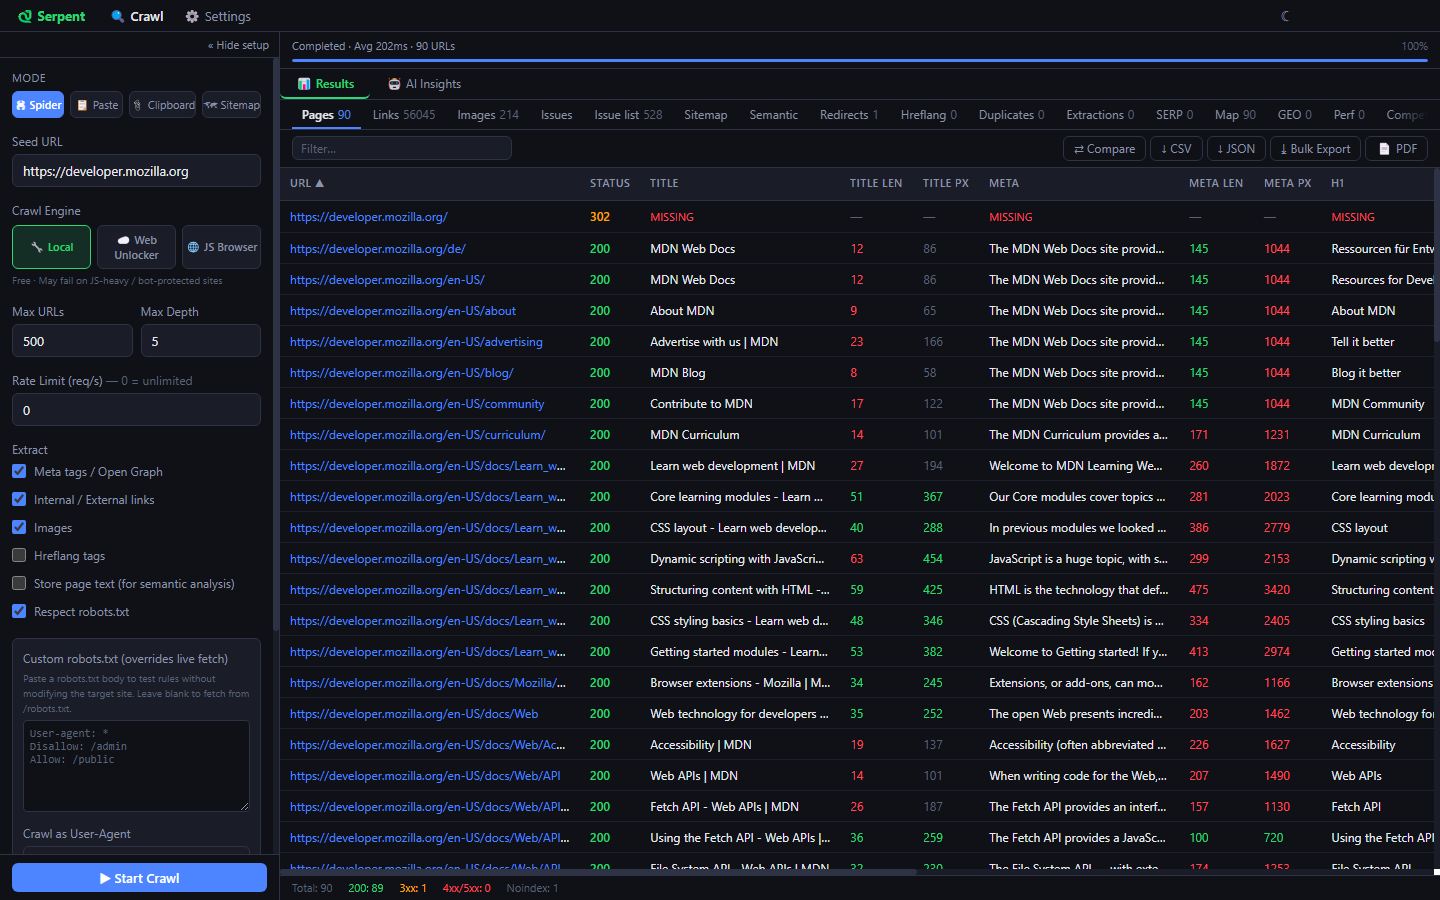
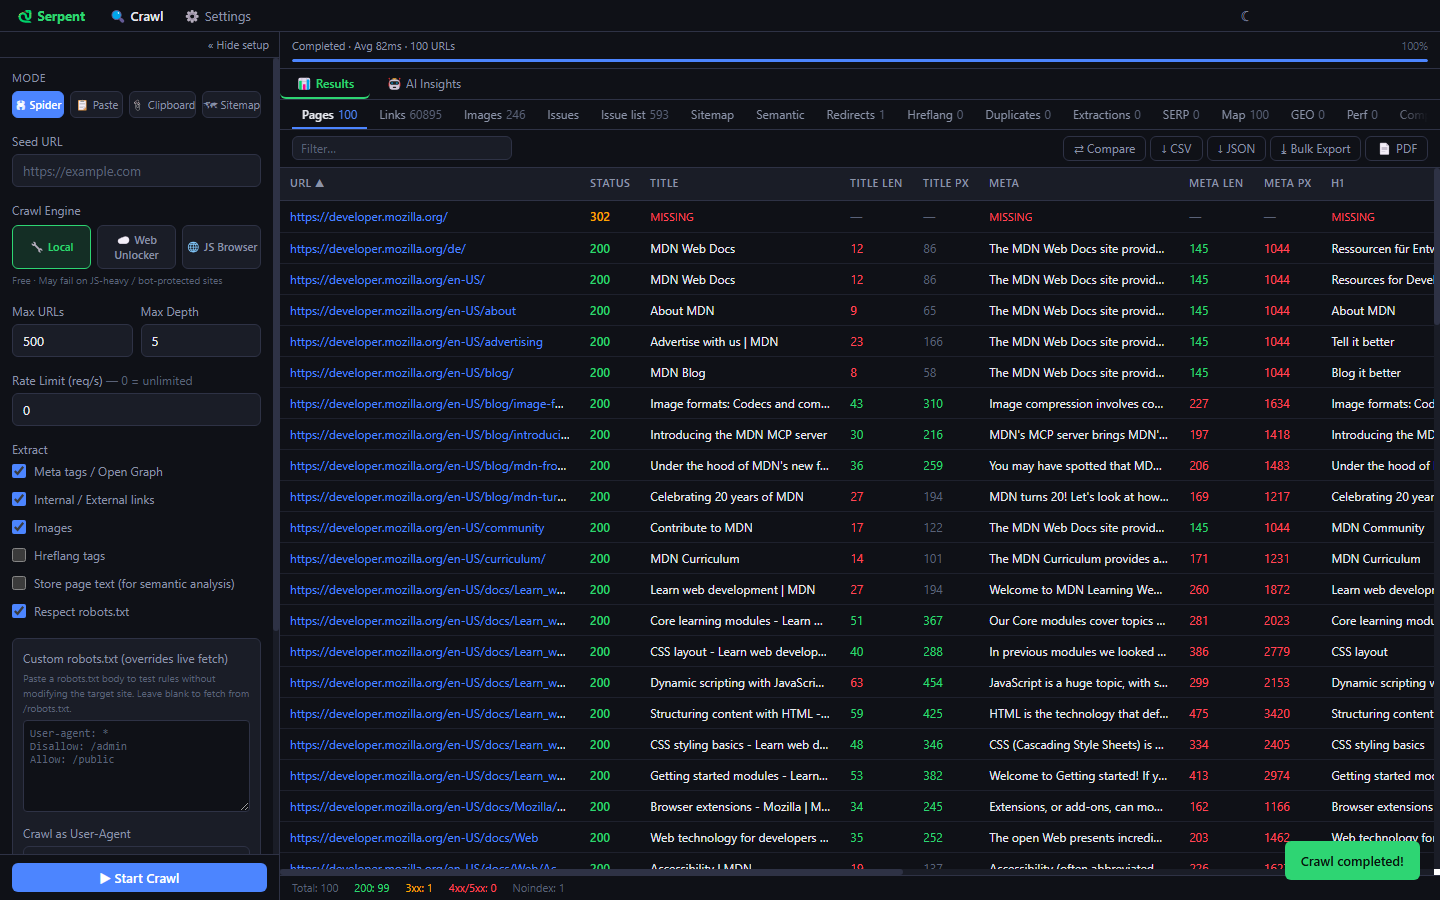
docs: document new features, MCP tools, and regenerate screenshots
README now covers the llms.txt validator and accessibility tabs, lists
the four previously undocumented MCP tools, corrects Node 18 to Node 20,
adds the Linux libsecret build requirement, and completes the tab list.

screenshot-geo.png is new (GEO tab). All five screenshots are recaptured
with a pinned dark theme against a neutral site so they stay stable
across crawls. take-screenshots.mjs is fixed to pass a CrawlConfig that
matches the current type and to set the theme before capture.

diff --git a/README.md b/README.md
@@ -33,6 +33,8 @@ Serpent is a desktop site crawler that brings enterprise-grade technical SEO aud
 | 💸 **Genuinely free** | No URL caps, no license server, no subscription. MIT-licensed and unlimited. |
 | 🔒 **100% local** | SQLite storage, OS-keychain secrets, zero telemetry. Your crawl data never leaves your machine. |
 | 🛡 **Crawls the un-crawlable** | Optional Bright Data integration bypasses bot protection; Electron's built-in Chromium renders JS — no separate browser required. |
+| 🌐 **Built for AI search** | GEO/AEO readiness scoring per page, plus `llms.txt` validation — audit how answer engines read your site, not just how Google crawls it. |
+| ♿ **Accessibility included** | Every crawl runs a static WCAG pass. No second tool, no extra request. |
 | 🤖 **Agent-ready** | A built-in MCP server lets Claude Desktop (or any MCP client) drive crawls and query results directly. |
 
 ---
@@ -46,6 +48,10 @@ Serpent is a desktop site crawler that brings enterprise-grade technical SEO aud
 | Site Map (Treemap) | Settings |
 |---|---|
 | ![Treemap visualizing site structure by link score](docs/screenshot-treemap.png) | ![Settings panel with theme switcher and Bright Data config](docs/screenshot-settings.png) |
+
+| GEO / AEO Readiness |
+|---|
+| ![GEO tab showing per-page AI search readiness scores across entity clarity, answer readiness, citation signals and structured data](docs/screenshot-geo.png) |
 
 ---
 
@@ -112,6 +118,65 @@ Hashing catches pages that share wording. Embeddings catch pages that share *mea
 </details>
 
 <details>
+<summary><b>🌐 GEO / AEO — AI Search Readiness</b></summary>
+
+Traditional crawlers score a page for Google's index. This scores it for the answer engines that read your page and quote it back to a user.
+
+Every crawled page gets a **0-100 GEO score** across four axes:
+
+- **Entity clarity** — is it obvious what and who this page is about, and are the entities named consistently?
+- **Answer readiness** — does the page answer a question directly, in a passage that can be lifted and cited?
+- **Citation signals** — the attribution surface: authorship, dates, sourcing, outbound evidence
+- **Structured data completeness** — how much of the page's meaning is machine-readable rather than inferred
+
+Plus **`llms.txt` validation** against the [llmstxt.org](https://llmstxt.org) proposal: whether the file exists, whether it is structurally valid (H1, blockquote summary, H2 link sections), whether `llms-full.txt` is published alongside it, and **which of its links your crawl never reached** — a link in `llms.txt` that a crawler cannot follow is one an LLM cannot fetch either.
+
+</details>
+
+<details>
+<summary><b>♿ Accessibility (WCAG)</b></summary>
+
+A static WCAG 2.2 pass runs on every crawled page, using the same parsed document as the SEO extractors — no second request, no render pass, no separate tool.
+
+14 rules across four impact levels, using axe-core's rule ids and vocabulary so results line up with the tooling you already run:
+
+| Impact | Rules |
+|---|---|
+| Critical | `image-alt` · `input-label` · `button-name` · `meta-viewport` |
+| Serious | `link-name` · `html-has-lang` · `html-lang-valid` · `document-title` · `frame-title` · `tabindex-positive` · `th-has-data-cells` |
+| Moderate | `heading-order` |
+| Minor | `empty-heading` · `duplicate-id` |
+
+Each page gets a 0-100 score weighted by impact and by the number of failing elements, surfaced as an **A11y** column in the Pages tab and rolled into the Issues tab under an **Accessibility** category.
+
+> **Known limitation:** rules that need computed style or layout — **colour contrast above all** — cannot be evaluated from static markup and are not implemented. A page scoring 100 here has passed the static rules only; run a browser-based checker for contrast.
+
+</details>
+
+<details>
+<summary><b>⚡ Performance Scoring</b></summary>
+
+- **0-100 performance score** per page across TTFB, page size, image optimization, and content efficiency
+- Complements the PageSpeed Insights integration — the score works on every page in the crawl, without burning PSI quota
+
+</details>
+
+<details>
+<summary><b>🔭 Competitor Discovery & Content Gaps</b></summary>
+
+- **Competitor discovery** via the Bright Data Discover API — find who else ranks in your space
+- **Content gap analysis** — topics competitors cover that your crawl has no page for
+
+</details>
+
+<details>
+<summary><b>📄 PDF Reports</b></summary>
+
+Generate a client-ready PDF from any crawl, with selectable sections: executive summary, technical issues, content quality, performance, GEO readiness, internal links, structured data, security, and images.
+
+</details>
+
+<details>
 <summary><b>📊 Issue Intelligence</b></summary>
 
 - **Severity scoring** — Critical / Warning / Info / Opportunity
@@ -143,11 +208,15 @@ Hashing catches pages that share wording. Embeddings catch pages that share *mea
 
 ## 🚀 Quick Start
 
-> **Just want the app?** Grab a prebuilt installer from the [**Releases**](https://github.com/danishashko/serpent/releases) page (Windows `.exe`, macOS `.dmg`, Linux `.AppImage`).
+> **Just want the app?** Grab a prebuilt installer from the [**Releases**](https://github.com/danishashko/serpent/releases) page — Windows `.exe`, macOS `.dmg` (Apple Silicon and Intel), Linux `.AppImage`.
+>
+> Builds are currently **unsigned** while the [SignPath Foundation](https://signpath.org) application is pending, so first launch needs one extra step:
+> **Windows** — SmartScreen: *More info → Run anyway*. **macOS** — Gatekeeper: right-click → *Open*, then confirm. **Linux** — `chmod +x` the AppImage, and install `libsecret` (`libsecret-1-0` on Debian/Ubuntu, `libsecret` on Arch) which the OS keychain integration needs at startup.
+> Every release ships SHA256 checksums and GitHub build provenance so you can verify the binary came from this repo. Every release page carries a *Verify this download* section with the exact commands.
 
 ### Run from source
 
-**Prerequisites:** Node.js 18+ · npm · Git
+**Prerequisites:** Node.js 20+ · npm · Git
 
 ```bash
 git clone https://github.com/danishashko/serpent.git
@@ -168,7 +237,8 @@ npm run dist         # → ./release  (NSIS .exe / DMG / AppImage for your OS)
 2. Pick an engine (**Local** is free; **Bright Data** for protected sites) and set depth/limits.
 3. Hit **Start** — watch pages stream into the **Pages** tab live.
 4. Open **Settings**, add an AI key, then click **Analyze** for severity-scored issues and fixes.
-5. **Export** as CSV/JSON, or explore the **Treemap** and **Issues** tabs.
+5. Open the **GEO** tab and hit **Run GEO/AEO Analysis** to score the crawl for AI search, and **Check llms.txt** to validate the file.
+6. **Export** as CSV/JSON, or explore the **Treemap** and **Issues** tabs.
 
 ---
 
@@ -212,10 +282,10 @@ flowchart LR
 
 1. **Configure** your crawl — URL, depth, concurrency, rate limit, extraction options.
 2. **Crawl** with the local engine or Bright Data (pause/resume supported).
-3. **Review** data across the results tabs — Pages, Links, Images, Issues, Sitemap, Semantic, Redirects, Hreflang, Duplicates, Extractions, SERP.
+3. **Review** data across the results tabs — Pages, Links, Images, Issues, Issue list, Sitemap, Semantic, Redirects, Hreflang, Duplicates, Extractions, SERP, Map, GEO, Perf, Competitors and Gaps.
 4. **Analyze** with your AI provider — severity-scored issues with fix suggestions.
-5. **Visualize** as a treemap, compare crawls, and connect GSC for orphan-page detection.
-6. **Export** results as CSV or JSON.
+5. **Score for AI search** in the GEO tab, check your `llms.txt`, then **visualize** as a treemap, compare crawls, and connect GSC for orphan-page detection.
+6. **Export** results as CSV or JSON, or generate a client-ready PDF report.
 
 ---
 
@@ -246,7 +316,13 @@ flowchart LR
 | Bot-protection bypass | ✅ Bright Data | ❌ |
 | SERP analysis | ✅ Bright Data | ❌ |
 | Cost monitoring | ✅ Real-time | N/A |
-| MCP server (AI agents) | ✅ | ❌ |
+| GEO / AEO readiness scoring | ✅ 4-axis score per page | ❌ |
+| `llms.txt` validation | ✅ Structure + link coverage | ❌ |
+| Accessibility (WCAG) | ✅ 14 static rules, no contrast | ✅ axe-core, incl. contrast |
+| Performance scoring | ✅ Built-in, no API quota | ✅ (Lighthouse/PSI) |
+| Competitor discovery + content gaps | ✅ Bright Data | ❌ |
+| PDF client reports | ✅ | ❌ |
+| MCP server (AI agents) | ✅ | ✅ |
 | Local data storage | ✅ SQLite | ✅ |
 | Cross-platform | ✅ Win/Mac/Linux | ✅ Win/Mac/Linux |
 | Open source | ✅ MIT | ❌ |
@@ -268,6 +344,10 @@ Serpent runs a built-in **Model Context Protocol** server at **`http://127.0.0.1
 | `get_results` | Get page-level SEO data for a crawl (paginated). |
 | `get_issues` | Get SEO issues grouped by severity. |
 | `export_csv` | Export full crawl data as CSV text. |
+| `get_links` | Get the internal link graph as source→target pairs with anchor text, for orphan pages and link equity. |
+| `get_images` | Audit crawled images: missing alt text, format, lazy-loading status. |
+| `get_settings` | Check which crawl engines and features are configured. |
+| `set_settings` | Save Bright Data credentials so the `brightdata` engine becomes available. |
 
 ### Connect from Claude Desktop
 
@@ -398,7 +478,9 @@ providers) are off by default, require you to supply your own API key, and are l
 with their destinations in the Privacy Policy.
 
 > **Status:** the SignPath Foundation application is pending. Until it is approved,
-> release binaries are unsigned and Windows SmartScreen will warn on first run.
+> release binaries are unsigned: Windows SmartScreen warns on first run, and macOS
+> Gatekeeper refuses to open the app until you right-click → *Open*. SignPath signs
+> Windows binaries only, so macOS and Linux builds stay unsigned either way.
 
 ---
 
